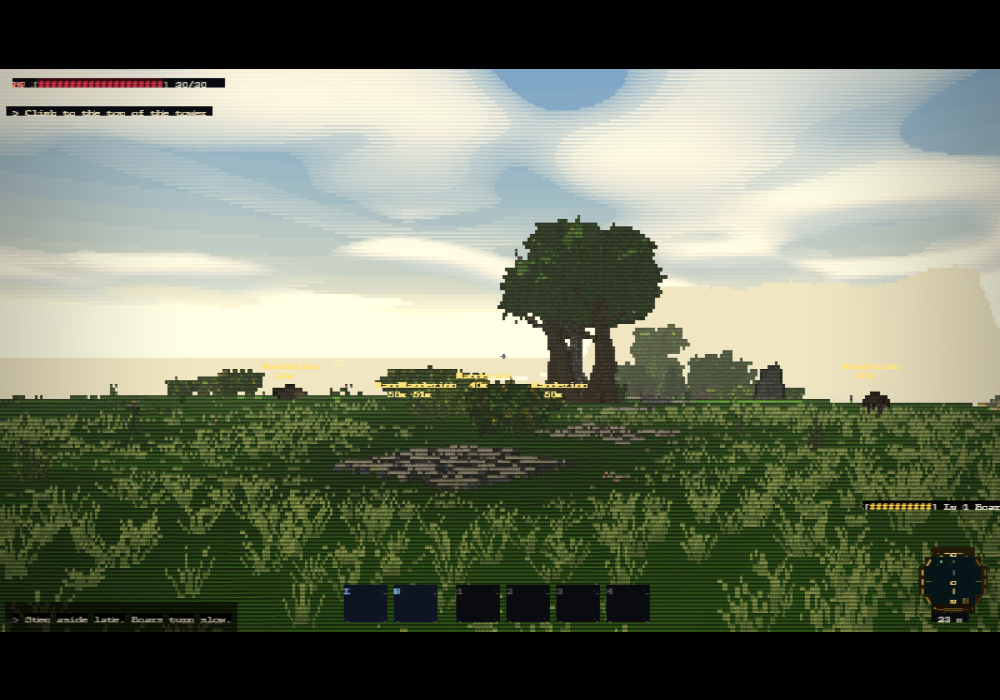
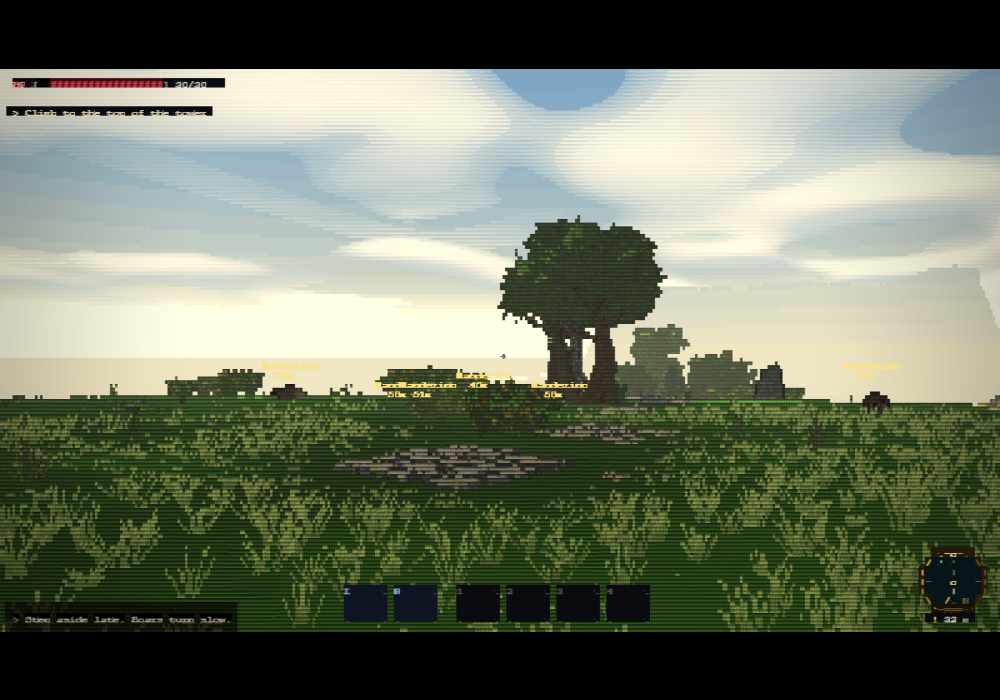
VISQA-02 (far cream): fully fogged far geometry takes the sky colour at its own elevation (farSkyShift = farSkyW*(sky[elev]-sky[0]) above the horizon), twin + WGSL; verify-far-silhouette gains the high-ridge case (before 43/61 FAIL, after 18/16.3)

diff --git a/engine/render/gpu/wgsl/shade.wgsl.js b/engine/render/gpu/wgsl/shade.wgsl.js
@@ -68,7 +68,7 @@ const SHADE_FIELDS = [
   { name: 'etA', type: 'vec4' }, { name: 'etId', type: 'vec4', count: 2 }, { name: 'etC', type: 'vec4', count: 8 },
   { name: 'skyCam', type: 'vec4' }, // AUD-40, APPENDED: shear-mode sky ray = (dirX + planeX*cx, dirY + planeY*cx): dirX, dirY, planeX, planeY
   { name: 'fogView', type: 'vec4' }, // AUD-45, APPENDED: x = eye height (m), y = 1 when height fog + sun in-scatter are on (terrain worlds), z = 1 outdoor mesh fog (OB-089), w unused
-  { name: 'skyGlowOn', type: 'vec4' }, // AUD-40 fix, APPENDED: x = 1 when sky glow + horizon haze apply (compositor gate: terrain world + timeOfDay palette), written every frame; DN-02 y = night glyph-luminance floor (liveLook.floorEff, 0 = off)
+  { name: 'skyGlowOn', type: 'vec4' }, // AUD-40 fix, APPENDED: x = 1 when sky glow + horizon haze apply (compositor gate: terrain world + timeOfDay palette), written every frame; DN-02 y = night glyph-luminance floor (liveLook.floorEff, 0 = off); VISQA-02 z = far-fog sky shift weight (atmos farSkyW)
   { name: 'skyline', type: 'vec4' }, // MAP-06b (38.42), APPENDED: far-terrain fog cap x fogMax (0 = off), y fromZ, z seaFogMax, w seaLevel
   { name: 'grass', type: 'vec4', count: 80 }, // OB-073 D2e, APPENDED: carpet variant table, 16 variants x GRASS_ROWS vec4 (terrainShade.js packGrassTable); all 0 = no carpet
   // SWIM-04c (38.54), APPENDED after grass: underwater look (underwater.js UNDER_WGSL). under.x = 0 skips the whole block.
@@ -141,6 +141,7 @@ fn tsFootprint(t: f32) -> f32 {
 ${TS_PATCH_NOISE_WGSL}
 
 struct TerrainOut { fr: f32, fg: f32, fb: f32, br: f32, bg: f32, bb: f32, glyph: i32, fgw: f32 };
+var<private> gFarSky: vec3f; // VISQA-02: per-cell sky-gradient shift of the far fog colour (set in shadeCell; twin: fogShape.js farSkyShiftJS)
 
 ${SKYLINE_FOG_WGSL}
 fn shadeTerrain(t: f32, typeIdIn: i32, b: f32, uIn: f32, vIn: f32, timeSec: f32, faceMode: i32, z: f32, nrm: vec3f${LK ? ', lookLo: i32, lookHi: i32, lookW: f32' : ''}) -> TerrainOut {
@@ -263,9 +264,9 @@ ${LK ? `        if (fgw > 0.5 - 0.4 * sg) { code = select(select(${FG_CODES[1]},
   f = clamp(f, 0.0, 1.0);
   f = pow(f, su.terrainFogCurve);
   f = skylineFogF(f, t, typeId, z, su.skyline); // MAP-06b (38.42): far peaks / sea line fog cap (x = 0: unchanged)
-  let fcr = su.terrainFogNearRGB.x + (su.terrainFogFarRGB.x - su.terrainFogNearRGB.x) * f;
-  let fcg = su.terrainFogNearRGB.y + (su.terrainFogFarRGB.y - su.terrainFogNearRGB.y) * f;
-  let fcb = su.terrainFogNearRGB.z + (su.terrainFogFarRGB.z - su.terrainFogNearRGB.z) * f;
+  let fcr = su.terrainFogNearRGB.x + (su.terrainFogFarRGB.x + gFarSky.x - su.terrainFogNearRGB.x) * f;
+  let fcg = su.terrainFogNearRGB.y + (su.terrainFogFarRGB.y + gFarSky.y - su.terrainFogNearRGB.y) * f;
+  let fcb = su.terrainFogNearRGB.z + (su.terrainFogFarRGB.z + gFarSky.z - su.terrainFogNearRGB.z) * f;
   fr += (fcr - fr) * f; fgc += (fcg - fgc) * f; fbc += (fcb - fbc) * f;
   let fBg = min(1.0, 1.1 * f);
   br += (fcr - br) * fBg; bgc += (fcg - bgc) * fBg; bbc += (fcb - bbc) * fBg;
@@ -442,6 +443,15 @@ fn shaftLiftC(c: vec3f, w: f32, sunI: f32) -> vec3f { return c + (FOG_SUN_TINT *
 fn shaftQ(cell: vec2i) -> i32 { return i32((textureLoad(uLightTex, cell, 0).w >> ${SHAFT_SHIFT}u) & ${SHAFT_Q}u); }
 ${UNDER_WGSL}
 // AUD-45: unit view direction of a cell for the standard fog (same rays as the sky: shear basis / pitched / ortho F).
+// VISQA-02: far fog -> the sky at the cell's own elevation: skyGlowOn.z (atmos farSkyW) * (uSky[idx(elev)] - uSky[0]), elev > 0 only.
+fn farSkyShift(cell: vec2i, gridSize: vec2i) -> vec3f {
+  if (su.skyGlowOn.z <= 0.0 || su.skyElevTop <= 0.0) { return vec3f(0.0); }
+  let d = fogCellDir(cell, gridSize);
+  let e = degrees(atan2(d.z, length(d.xy)));
+  if (!(e > 0.0)) { return vec3f(0.0); }
+  let idx = i32(min(1.0, e / su.skyElevTop) * ${SKY_LUT_N - 1}.0 + 0.5);
+  return su.skyGlowOn.z * (textureLoad(uSky, vec2i(idx, 0), 0).rgb - textureLoad(uSky, vec2i(0, 0), 0).rgb);
+}
 fn fogCellDir(cell: vec2i, gridSize: vec2i) -> vec3f {
   if (su.projMode == 0) {
     let cx = (2.0 * (f32(cell.x) + 0.5)) / f32(gridSize.x) - 1.0;
@@ -762,6 +772,7 @@ fn shadeCell(frag: vec4f) -> FO {
   let jsFg = textureLoad(uFgTex, cell, 0);
   let jsBg = textureLoad(uBgTex, cell, 0);
   let gridSize = vec2i(textureDimensions(uGI));
+  if (kindU != 0u) { gFarSky = farSkyShift(cell, gridSize); } // VISQA-02 (0 when off)
   var o: FO;${L.init}
 
   if (kindU == 0u) {
@@ -991,7 +1002,7 @@ ${look ? `    let to = shadeTerrain(distT, typeId, bT, uT, vT, su.timeSec, faceM
   if (su.fogView.z > 0.5) { // OB-089: outdoor mesh fog = the terrain's far fog (twin: detailShade.js shadeTail, fogShapeCtx.outdoor); fg == bg
     f = clamp((dist - su.terrainFogStart) / (su.terrainFogFull - su.terrainFogStart), 0.0, 1.0);
     f = select(pow(f, su.terrainFogCurve), f, su.terrainFogCurve == 1.0);
-    let oc = su.terrainFogNearRGB + (su.terrainFogFarRGB - su.terrainFogNearRGB) * f;
+    let oc = su.terrainFogNearRGB + (su.terrainFogFarRGB + gFarSky - su.terrainFogNearRGB) * f; // VISQA-02: + sky shift
     fogFgC = oc; fogBgC = oc;
   }
   if (su.fogView.y > 0.5 && su.fogView.z < 0.5 && f > 0.0) { // AUD-45: height fog + sun in-scatter (only where f > 0); OB-204: not for outdoor meshes (terrain has none, so far meshes came out paler than the hills)

diff --git a/engine/render/terrainShade.js b/engine/render/terrainShade.js
@@ -21,6 +21,8 @@ import { WET_DARK, wetGain } from './detailShade.js';
 import { LEVEL_NONE, LEVEL_ANIM } from './temporalStable.js';
 import { STEP } from '../core/loop.js';
 import { skylineFogF } from './skyline.js';
+import { farSkyActive, farSkyShiftJS } from './fogShape.js';
+const FAR_SKY = [0, 0, 0];
 import { sampleGIBuf, giMemoBegin, giMemoEnd } from './giProbe.js'; // GI-PROBE-04
 import { resolveLook } from './look.js';
 import { shadeLookCell, packLookTable, makeGroundLook, LOOK_TABLE_WORDS } from './groundLook.js'; // ENV-02b (38.63); circular with this file but only called at runtime
@@ -404,9 +406,10 @@ export function shadeTerrain(t, type, b, u, v, timeSec, ctx, out, faceMode = 0, 
   f = f < 0 ? 0 : f > 1 ? 1 : f;
   f = Math.pow(f, F.curve || 1);
   if (ctx.skyline) f = skylineFogF(f, t, type, z, ctx.skyline);
-  const fcr = F.nearRGB[0] + (F.farRGB[0] - F.nearRGB[0]) * f;
-  const fcg = F.nearRGB[1] + (F.farRGB[1] - F.nearRGB[1]) * f;
-  const fcb = F.nearRGB[2] + (F.farRGB[2] - F.nearRGB[2]) * f;
+  // VISQA-02: FAR_SKY = per-cell sky-gradient shift of the far colour (set by shadeTerrainCells, 0 elsewhere; twin of WGSL gFarSky)
+  const fcr = F.nearRGB[0] + (F.farRGB[0] + FAR_SKY[0] - F.nearRGB[0]) * f;
+  const fcg = F.nearRGB[1] + (F.farRGB[1] + FAR_SKY[1] - F.nearRGB[1]) * f;
+  const fcb = F.nearRGB[2] + (F.farRGB[2] + FAR_SKY[2] - F.nearRGB[2]) * f;
   fr += (fcr - fr) * f; fg += (fcg - fg) * f; fb += (fcb - fb) * f;
   const fBg = Math.min(1, 1.1 * f);
   br += (fcr - br) * fBg; bg += (fcg - bg) * fBg; bb += (fcb - bb) * fBg;
@@ -780,6 +783,7 @@ export function shadeTerrainCells(fb, terrain, world, timeSec = 0, hashCell = 0)
   const giOn = !!gi && gi.on && gi.field !== null;
   const giInvSky = giOn ? 1 / Math.max(1e-6, gi.skyRGB[0] + gi.skyRGB[1] + gi.skyRGB[2]) : 0;
   if (giOn) giMemoBegin(gi);
+  const fsOn = farSkyActive(); // VISQA-02: per-cell far-fog sky shift (fogShape.js), off = FAR_SKY stays 0
   for (let i = 0; i < n; i++) {
     const kd = gbuf.kind[i];
     if (kd !== KIND_TERRAIN && !(kd === KIND_GRASS && grassTab !== null)) continue; // OB-073 D2c: kind 10 only with a carpet table
@@ -807,6 +811,7 @@ export function shadeTerrainCells(fb, terrain, world, timeSec = 0, hashCell = 0)
       lr = light.rgb[0]; lg = light.rgb[1]; lb = light.rgb[2];
     }
     const bT = b + Math.max(lr, Math.max(lg, lb));
+    if (fsOn && !isG) farSkyShiftJS(i % gbuf.cols, (i / gbuf.cols) | 0, FAR_SKY); // VISQA-02
     if (isG) shadeGrass(t, gbuf.mat[i], u, v, gbuf.vao[i], bT, grassTab, ctx, shadeOut, gbuf.grassX[i], sun.sunI);
     else if (GLK) { lookAtXY(u, v); shadeTerrain(t, gbuf.mat[i], bT, u, v, timeSec, ctx, shadeOut, forestFaceMode(gbuf, alias, ctx, i, t), gbuf.z[i], shadeNrm[0], shadeNrm[1], shadeNrm[2], lkLo, lkHi, lkW); } // ENV-02d: u,v = world x,y of a terrain cell
     else shadeTerrain(t, gbuf.mat[i], bT, u, v, timeSec, ctx, shadeOut, forestFaceMode(gbuf, alias, ctx, i, t), gbuf.z[i], shadeNrm[0], shadeNrm[1], shadeNrm[2]); // MAP-06b: z = the rasterised surface height (kind 7: zBase/zRef 0), same value as the GPU's GA.z
@@ -818,4 +823,5 @@ export function shadeTerrainCells(fb, terrain, world, timeSec = 0, hashCell = 0)
     cells.setCellRGB(x, y, shadeOut.glyph, shadeOut.fg[0], shadeOut.fg[1], shadeOut.fg[2], shadeOut.bg[0], shadeOut.bg[1], shadeOut.bg[2]);
   }
   if (giOn) giMemoEnd(gi);
+  FAR_SKY[0] = 0; FAR_SKY[1] = 0; FAR_SKY[2] = 0;
 }

diff --git a/engine/render/fogShape.js b/engine/render/fogShape.js
@@ -3,6 +3,8 @@
 // (D-039). Both only act where f > 0 (short range is untouched) and leave f == 1 at 1. Sun colour/strength come from skyGlow.js.
 import { SKY_GLOW, skyGlowStrength } from './skyGlow.js';
 import { screenRay } from './projection.js';
+import { skyLutFromPalette } from './waterReflect.js';
+import { SKY_LUT_N } from './gpu/wgsl/skyLut.js';
 
 export const FOG_SHAPE = Object.freeze({
   base: 6,            // metres: fog height reference (valley floor); denser below, thinning above
@@ -91,6 +93,36 @@ export function folDiceJS(col, row, dist, seed) { // seed = material seed + salt
   h = Math.imul(h ^ (h >>> 13), 0xc2b2ae35);
   h ^= h >>> 16;
   return (h >>> 0) / 4294967296;
+}
+/**
+ * VISQA-02 (OB-209 follow-up): far fog follows the sky gradient at the cell's own elevation. Per frame: skyW = P.atmos.farSkyW
+ * (biome share of the sky-horizon far fog, 0 = off -> byte-identical) and the CPU copy of the GPU sky LUT (same bake as passShade
+ * _bakeSky: look stops + atmos haze, f32). Per cell: out = skyW * (lut[idx(elev)] - lut[0]) for elev > 0, else 0 (twin of WGSL
+ * farSkyShift: elev from fogCellDir, idx = round(clamp(elev / elevTop) * (N - 1))). Needs fogShapeCtx.terms for this frame.
+ */
+const farSky = { w: 0, top: 0, ver: -1, live: -1, P: /** @type {any} */ (null), lut: new Float32Array(SKY_LUT_N * 4) };
+export function farSkyPrep(P) {
+  const st = P && P.atmos, w = st && st.farSkyW > 0 ? st.farSkyW : 0;
+  farSky.w = 0;
+  if (!w) return 0;
+  const fv = P.liveFogVersion | 0, lv = P.liveLookVersion | 0;
+  if (farSky.P !== P || farSky.ver !== fv || farSky.live !== lv) { farSky.top = skyLutFromPalette(P, farSky.lut) || 0; farSky.P = P; farSky.ver = fv; farSky.live = lv; }
+  if (farSky.top > 0) farSky.w = w;
+  return farSky.w;
+}
+/** Disable the per-cell shift (non-terrain frames). */
+export function farSkyOff() { farSky.w = 0; }
+/** True when farSkyShiftJS can return non-zero this frame. */
+export function farSkyActive() { return farSky.w > 0; }
+export function farSkyShiftJS(col, row, out) {
+  out[0] = 0; out[1] = 0; out[2] = 0;
+  if (!(farSky.w > 0) || !fogShapeCtx.terms) return out;
+  const d = fogCellDirJS(col, row), fr = Math.fround;
+  const e = fr(Math.atan2(fr(d[2]), fr(Math.hypot(fr(d[0]), fr(d[1])))) * (180 / Math.PI));
+  if (!(e > 0)) return out;
+  const t = Math.min(1, e / farSky.top), L = farSky.lut, o = Math.floor(t * (SKY_LUT_N - 1) + 0.5) * 4, w = farSky.w;
+  out[0] = w * (L[o] - L[0]); out[1] = w * (L[o + 1] - L[1]); out[2] = w * (L[o + 2] - L[2]);
+  return out;
 }
 const _dir = [0, 0, 0], _ray = { ox: 0, oy: 0, oz: 0, dx: 0, dy: 0, dz: 0 };
 

diff --git a/engine/render/detailShade.js b/engine/render/detailShade.js
@@ -26,7 +26,7 @@ import { entityTintAt, tintChannel } from './entityTint.js';
 import { vegTintGain } from '../mesh/vegTint.js';
 import { KIND_MODEL, KIND_MESH, FACE_PACKED } from './GBuffer.js';
 import { clamp01, clampByte } from '../core/math.js';
-import { fogShapeCtx, fogShapeF, fogScatterW, fogScatterColor, fogCellDirJS, folDiceJS } from './fogShape.js';
+import { fogShapeCtx, fogShapeF, fogScatterW, fogScatterColor, fogCellDirJS, folDiceJS, farSkyActive, farSkyShiftJS } from './fogShape.js';
 
 // --- fast level()/orientClass() (tech notes item 6) -------------------------
 const TAN22 = Math.tan(22 * Math.PI / 180);
@@ -606,7 +606,7 @@ export function shadeCore(table, rec, u, v, z, aoD, dudx, dvdx, dudy, dvdy, dist
  * the averaged `b`/`gb`/`cr`/`cg`/`cb`/`bgK`/`hA`/`hB`. `face` is only
  * needed for `orientClassCode`'s du/dv axis pick.
  */
-const _fogFgS = [0, 0, 0], _fogBgS = [0, 0, 0], _fogOut = [0, 0, 0];
+const _fogFgS = [0, 0, 0], _fogBgS = [0, 0, 0], _fogOut = [0, 0, 0], _farSh = [0, 0, 0], _farC = [0, 0, 0];
 let vegOn = false; // AUD-47: set per cell by shadeSurfaces (v2 path) so the gain lands before fog like the WGSL
 const vegGain = new Float32Array(3);
 function shadeTail(table, core, dudx, dvdx, dudy, dvdy, dist, cellAspect, cutoff, light, out, cellIdx) {
@@ -618,7 +618,11 @@ function shadeTail(table, core, dudx, dvdx, dudy, dvdy, dist, cellAspect, cutoff
     const o = fogShapeCtx;
     f = dist <= o.tStart ? 0 : dist >= o.tFull ? 1 : (dist - o.tStart) / (o.tFull - o.tStart);
     if (o.tCurve !== 1) f = Math.pow(f, o.tCurve);
-    const nr = o.tNear, fr2 = o.tFar;
+    let fr2 = o.tFar; const nr = o.tNear;
+    if (farSkyActive()) { // VISQA-02: far colour + the sky gradient shift at this cell's elevation (twin of WGSL gFarSky)
+      const cols = o.terms.cols, row = Math.floor(cellIdx / cols), sh = farSkyShiftJS(cellIdx - row * cols, row, _farSh);
+      _farC[0] = fr2[0] + sh[0]; _farC[1] = fr2[1] + sh[1]; _farC[2] = fr2[2] + sh[2]; fr2 = _farC;
+    }
     _fogOut[0] = nr[0] + (fr2[0] - nr[0]) * f; _fogOut[1] = nr[1] + (fr2[1] - nr[1]) * f; _fogOut[2] = nr[2] + (fr2[2] - nr[2]) * f;
     fogFgC = _fogOut; fogBgC = _fogOut;
   } // edge-pass gate (gbuf.fogF): the LINEAR factor - edge.wgsl fogF(dist) recomputes it without the AUD-45 boost

diff --git a/engine/render/farSky.test.js b/engine/render/farSky.test.js
@@ -1,0 +1,28 @@
+// VISQA-02 Node test: far fog follows the sky gradient at the cell's own elevation (fogShape.js farSkyPrep / farSkyShiftJS,
+// twin of WGSL farSkyShift). Off (no atmos / farSkyW 0) = zero shift; at / below the horizon = zero; high cells = w * (sky(e) - sky(0)).
+import assert from 'node:assert/strict';
+import { fogShapeCtx, farSkyPrep, farSkyOff, farSkyActive, farSkyShiftJS } from './fogShape.js';
+import { SKY_LUT_N } from './gpu/wgsl/skyLut.js';
+
+const P = { materials: { sky: { elevTop: 45 } }, timeOfDay: { day: { sky: [{ t: 0, c: 'hz' }, { t: 1, c: 'top' }] } }, defaultTime: 'day',
+  rgb: { hz: [240, 220, 180], top: [90, 140, 220] }, atmos: { on: false, farSkyW: 1 }, liveFogVersion: 1 };
+fogShapeCtx.mode = 0;
+fogShapeCtx.terms = /** @type {any} */ ({ cols: 100, dirX: 0, dirY: -1, planeX: 1, planeY: 0, horizonRow: 50, planeDistY: 50 });
+const out = [0, 0, 0];
+
+assert.equal(farSkyPrep({ ...P, atmos: null }), 0, 'no atmos -> off'); assert.equal(farSkyActive(), false);
+assert.deepEqual(farSkyShiftJS(50, 0, out), [0, 0, 0], 'off -> zero shift');
+
+assert.equal(farSkyPrep(P), 1); assert.equal(farSkyActive(), true);
+assert.deepEqual(farSkyShiftJS(50, 50, out), [0, 0, 0], 'horizon row -> zero');
+assert.deepEqual(farSkyShiftJS(50, 70, out), [0, 0, 0], 'below the horizon -> zero');
+const top = farSkyShiftJS(50, 0, [0, 0, 0]); // tanE = 1 -> 45 deg = elevTop -> last LUT texel = top colour
+assert.ok(Math.abs(top[0] - (90 - 240)) < 1e-3 && Math.abs(top[2] - (220 - 180)) < 1e-3, 'elevTop -> sky top - horizon: ' + top);
+const mid = farSkyShiftJS(50, 40, [0, 0, 0]); // ~11.3 deg: partial, bluer than the horizon, less than the top
+const e = Math.atan2(10, 50) * 180 / Math.PI, k = Math.floor(e / 45 * (SKY_LUT_N - 1) + 0.5) / (SKY_LUT_N - 1);
+assert.ok(Math.abs(mid[0] - k * (90 - 240)) < 1e-3, 'LUT index rounding matches the WGSL rule: ' + mid[0] + ' vs ' + k * -150);
+P.atmos.farSkyW = 0.5; P.liveFogVersion = 2; farSkyPrep(P);
+assert.ok(Math.abs(farSkyShiftJS(50, 0, out)[0] - 0.5 * (90 - 240)) < 1e-3, 'weighted by the biome share');
+farSkyOff(); assert.deepEqual(farSkyShiftJS(50, 0, out), [0, 0, 0], 'farSkyOff -> zero');
+fogShapeCtx.terms = null;
+console.log('farSky.test: ok');

diff --git a/engine/render/gpu/wgsl/shade.wgsl.test.js b/engine/render/gpu/wgsl/shade.wgsl.test.js
@@ -253,6 +253,7 @@ const setITex = toTex(packed.setI, SET_I_WIDTH, nSet);
       base.wetGain = compileFn(SHADE_WGSL, 'wetGain', base);
       base.skylineFogF = compileFn(src, 'skylineFogF', base); // MAP-06b
       for (const fnName of ['tsFootprint', 'tsOctFade', 'tsValueNoise', 'tsPatchNoise']) base[fnName] = compileFn(src, fnName, base); // OB-073 noise helpers
+      base.gFarSky = { x: 0, y: 0, z: 0 }; // VISQA-02: module-private far-sky shift (twin FAR_SKY = 0 outside shadeTerrainCells)
       const st = compileFn(src, 'shadeTerrain', base);
       const ctx = { tlook, tlookWidth: TLOOK_WIDTH, bands, fog, shading: { ...shadingT, wetness: wet, floorLum: floorY }, closeBand: 40, handover: [40, 90], features: null, hashCell, skyline: sky, cliffType: 1, farGrass: FGREC || undefined };
       for (let t = 0; t < trials; t++) {
@@ -531,8 +532,9 @@ const setITex = toTex(packed.setI, SET_I_WIDTH, nSet);
   // re-pinned 58076 -> 58963 by OB-197 (bevelShadeK: footprint-aware stone bevel; shadeCore bevel call)
   // re-pinned 60922 -> 61248 by integration aaint (AA-08 soft patch tone merged with OB-204/OB-197)
   // re-pinned 61248 -> 62327 by AA-15 (OB-208: folDice world-block glyph dice for soft-edge leaf cards, gated on fogView.w)
-  assert.equal(SHADE_WGSL.length, 62327, 'stable off: SHADE_WGSL length unchanged');
[1 lines of base64/hex data omitted]
+  // re-pinned 62327 -> 63190 by VISQA-02 (gFarSky: far fog follows the sky LUT at the cell elevation, skyGlowOn.z weight)
+  assert.equal(SHADE_WGSL.length, 63190, 'stable off: SHADE_WGSL length unchanged');
[1 lines of base64/hex data omitted]
   assert.ok(!/lvl|lvOut|location\(2\)/.test(SHADE_WGSL), 'stable off: no level output');
   assert.deepEqual(SHADE_TARGETS, ['rgba8', 'rgba8']);
   assert.deepEqual(SHADE_LEVEL_TARGETS, ['rgba8', 'rgba8', 'r8ui']);

diff --git a/engine/render/atmos.js b/engine/render/atmos.js
@@ -25,7 +25,7 @@ export function atmosFogFitError(samples = 3000) {
 export function createAtmosState() {
   return {
     on: false, version: 0,
-    fogNear: new Float32Array(3), fogFar: new Float32Array(3), wNone: 1, fogStart: 0, fogFull: 1, fogCurve: 1,
+    fogNear: new Float32Array(3), fogFar: new Float32Array(3), wNone: 1, farSkyW: 0, fogStart: 0, fogFull: 1, fogCurve: 1,
     haze: new Float32Array(3), hazeK: 0,
     lift: new Float32Array(3), invGamma: new Float32Array([1, 1, 1]), gain: new Float32Array([1, 1, 1]), sat: 1,
     gradeId: true,      // grade is exactly the identity (skipped)
@@ -116,7 +116,10 @@ export function applyAtmosToPalette(P, state) {
   // stop t = 0 + this state's haze at t = 0), so fully fogged far hills melt into the sky instead of a pale/green cut-out.
   // Weighted by the biome share (1 - wNone): wNone 1 keeps the base far colour (fogHour) byte-identical.
   const fw = 1 - (state.wNone >= 0 ? state.wNone : 0), ff = state.fogFar;
-  if (fw > 0 && skyHorizonRGB(P, state, HZ)) { HZ[0] = ff[0] + (HZ[0] - ff[0]) * fw; HZ[1] = ff[1] + (HZ[1] - ff[1]) * fw; HZ[2] = ff[2] + (HZ[2] - ff[2]) * fw; setLive(P, LIVE_FAR, HZ); }
+  // VISQA-02: farSkyW = that share; the shade passes add farSkyW * (sky(elev) - sky(0)) per cell (fogShape.js farSkyShiftJS / WGSL
+  // farSkyShift), so a far ridge high above the horizon fogs to the sky at ITS elevation, not one flat horizon cream.
+  state.farSkyW = 0;
+  if (fw > 0 && skyHorizonRGB(P, state, HZ)) { HZ[0] = ff[0] + (HZ[0] - ff[0]) * fw; HZ[1] = ff[1] + (HZ[1] - ff[1]) * fw; HZ[2] = ff[2] + (HZ[2] - ff[2]) * fw; setLive(P, LIVE_FAR, HZ); state.farSkyW = fw; }
   else setLive(P, LIVE_FAR, ff);
   P.fog.far = L; P.atmos = state;
   P.liveFogVersion = (P.liveFogVersion | 0) + 1;

diff --git a/engine/render/compositor.js b/engine/render/compositor.js
@@ -5,7 +5,7 @@
 // beginFrame/castSectors/.../fillSky sequence main.js used to write out by
 // hand for a single bare level (US-024).
 import { windSwayOn, sunWindClock } from '../mesh/sway.js';
-import { fogShapeCtx, meshOutdoorFog } from './fogShape.js';
+import { fogShapeCtx, meshOutdoorFog, farSkyPrep, farSkyOff } from './fogShape.js';
 import { fillSky, ambientL, primeAmbientLight } from './sky.js';
 import { shadeTerrainCells } from './terrainShade.js';
 import { carpetCtxFor, carpetCells } from './carpet.js';
@@ -416,7 +416,8 @@ export function renderWorld(fb, world, cam) {
       const fsun = sunFromWorld(world, fb.palette, skySunScratch);
       fsc.mode = meshPitched ? (meshPitchTerms.ortho ? 2 : 1) : 0; fsc.terms = meshPitched ? meshPitchTerms : meshTerms; fsc.camZ = cam.z; fsc.camX = cam.x; fsc.camY = cam.y; // AA-15: + cam x/y for folDiceJS
       fsc.sunX = fsun.dirX; fsc.sunY = fsun.dirY; fsc.sunZ = fsun.dirZ; fsc.sunI = fsun.sunI;
-    }
+      farSkyPrep(fb.palette); // VISQA-02: far fog -> sky at the cell's elevation (terrain + outdoor meshes; terms stay set for shadeTerrainCells)
+    } else farSkyOff();
     shadeSurfaces(fb, fb.gbuf, fb.matTable, fb.detailPass, fb.light);
     fsc.on = false; fsc.outdoor = false;
     shadeTerrainCells(fb, world.terrain, world, fb.timeSec || 0, meshHashCell);

diff --git a/engine/render/gpu/wg/passShade.js b/engine/render/gpu/wg/passShade.js
@@ -297,6 +297,7 @@ export class WgShadePass {
     if (useScene && p._cam) { su[S_UNDER_CAM] = p._cam.x; su[S_UNDER_CAM + 1] = p._cam.y; }
     su[S_FOGVIEW + 2] = fogShapeOn && this.terrainU.fogOn && meshOutdoorFog(p._world, p._cam, p._palette) ? 1 : 0; // OB-089: mesh pixels fog like the terrain outdoors
     const liveK = this.palette && this.palette.liveLook; su[S_SKYGLOWON + 1] = liveK && liveK.floorEff > 0 ? liveK.floorEff : 0; // DN-02 night glyph-luminance floor (0 = off)
+    const atm = this.palette && this.palette.atmos; su[S_SKYGLOWON + 2] = fogShapeOn && atm && atm.farSkyW > 0 ? atm.farSkyW : 0; // VISQA-02: far fog sky shift weight (twin: fogShape.js farSkyPrep)
     su[S_SKYGLOWON] = fogShapeOn ? 1 : 0; // AUD-40: same gate, written every frame (sunDir/sunI are stale outside terrain worlds)
     if (this.skyClouds) { const o = S_CLOUD + 12, w = this.skyCloudWind; su[o] = (w[0] * tSec) % 256; su[o + 1] = (w[1] * tSec) % 256; } // drift = sky.js cloudDriftOffset (f32 store = fround)
     if (pitched) {

diff --git a/docs/lanes/pc-b1.md b/docs/lanes/pc-b1.md
@@ -1797,3 +1797,7 @@ Before/after teaser t=0: docs/test-reports/ob213-falls-before.png / ob213-falls-
   GPU A/B glyphOnly (480x180, gate col): off wallNear 5.06 wallFar 4.92 bushes 4.18 crown 4.99 grassFar 3.73 avg 4.58 -> on (q 0.5) 5.06/4.92/4.14/4.68/3.72 avg 4.50 (q 0.25 variant: crown 4.79). No pose worse. gpucompare rtx4060: only PASS->FAIL = signal tower; stable rows 0 mismatches.
   Tests: new engine/render/folDice.test.js, shade.wgsl.test pin 61248 -> 62327, api manifest +setFoliageDice; 21 suites PASS, check-deps OK. Owner look: leaf alternates now constant per 0.5 m block near (check bushes do not look patchy).
   Left (ASK ARCHITECT): remaining bushes flips are level changes on card jumps (lighting per card normal, ~1.1 %) + edge 0.9 + kind 8 voxel props ~1.0; needs a foliage normal/level hold, not a dice fix.
+- 2026-10-16 VISQA-02 FAR-CREAM (k2, arch-review): far fog colour + farSkyW*(skyLUT[elev]-skyLUT[0]) per cell (atmos farSkyW = OB-209 biome share; WGSL gFarSky/farSkyShift in shade.wgsl.js terrain + outdoor-mesh fog, twin fogShape.js farSkyPrep/farSkyShiftJS used by terrainShade/detailShade; uniform skyGlowOn.z). Grass carpet untouched.
+  Gate: verify-far-silhouette + new `high` case (burl-home pitch 4, tools/farSilhouette.mjs measureRidge, pale cut-outs only): before (VISQA-01 stills) 09 43.0 / 13 61.0 FAIL, after 18.0 / 16.3; meadow 21.3/21.7/13 PASS. Stills docs/test-reports/visqa/fix-02-high-after-{9,13}.png. Tests: new engine/render/farSky.test.js, shade.wgsl length/sha re-pinned 62327->63190. gpucompare: only baseline-FAIL `crash room` seen (main: confirm no other PASS->FAIL).
+  Note for PO/arch: fully fogged mountains now melt into the sky (faint ridge only); if the owner wants visible far ridges, set the look's haze.skyline fogMax (MAP-06b cap) - content choice, not done.
+  VISQA-03 FAR-TREE-PALE + VISQA-05 not started (call cap). VISQA-03 lead: impostor cards are plain kind-9 mesh cells (same outdoor fog as meshes), so the "1 min later pale" pop is more likely card lighting/normals than fog - compare `EXTRA=imp=0`. ASK ARCHITECT if that is not it.
